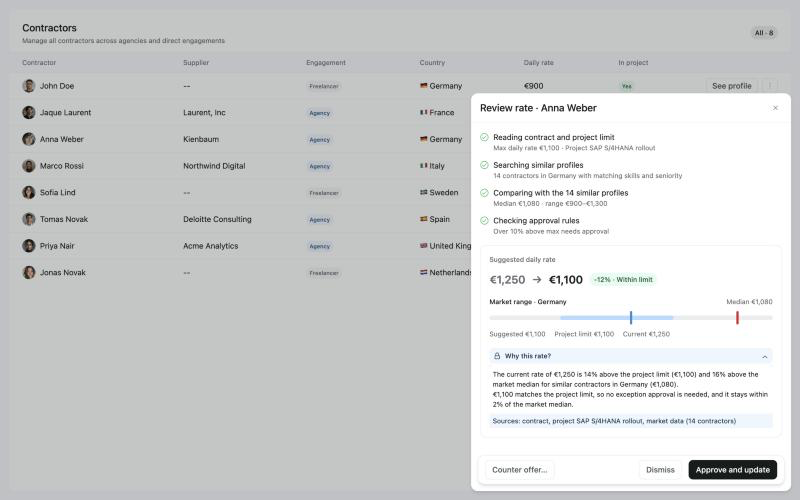
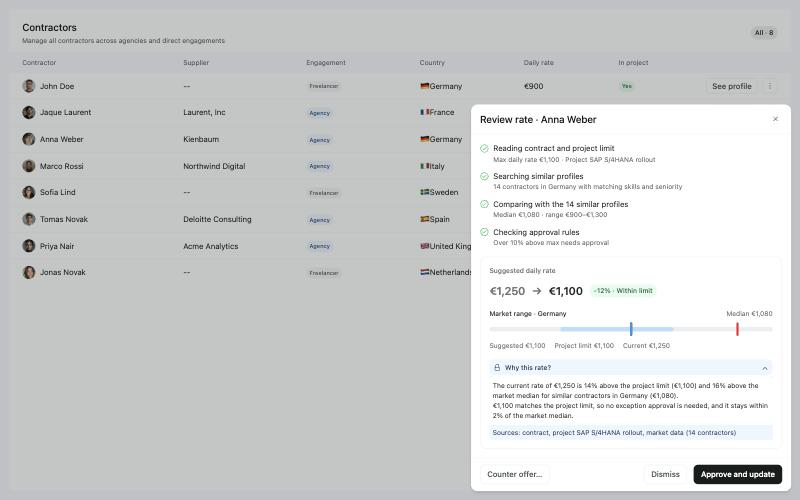
Review rate: panel footer pinned (like Figma), hug up to stage height, taller stage, new preview

diff --git a/experiments/review-rate/style.css b/experiments/review-rate/style.css
@@ -68,8 +68,8 @@
 .scrim { position: absolute; inset: 0; z-index: 40; background: color-mix(in srgb, var(--color-carbon-black-6) 25%, transparent); opacity: 0; pointer-events: none; transition: opacity .25s; }
 .panel { position: absolute; z-index: 50; right: 16px; bottom: 16px; width: min(576px, calc(100% - 32px)); height: 0; overflow: hidden; border-radius: 12px; background: var(--color-bg-white); color: var(--color-text-primary); box-shadow: var(--shadow-default); transform: translateY(calc(100% + 32px)); transition: transform .3s var(--ease), height .3s var(--ease); }
 .panel-inner { display: flex; flex-direction: column; }
-/* Floating footer: content scrolls underneath it */
-.float-footer { position: absolute; left: 12px; right: 12px; bottom: 12px; z-index: 2; display: flex; align-items: center; justify-content: space-between; padding: 8px 12px; border-radius: 12px; border: 1px solid var(--color-border-light); background: var(--color-bg-white); box-shadow: var(--shadow-default); }
+/* Footer pinned at the bottom of the floating panel; the body above it scrolls */
+.float-footer { flex: none; display: flex; align-items: center; justify-content: space-between; padding: 12px 16px; border-top: 1px solid var(--color-border-divider); background: var(--color-bg-white); }
 #stage[data-state="working"] .scrim, #stage[data-state="proposal"] .scrim { opacity: 1; pointer-events: auto; }
 #stage[data-state="working"] .panel, #stage[data-state="proposal"] .panel { transform: none; }
 

diff --git a/experiments/review-rate/index.html b/experiments/review-rate/index.html
@@ -26,7 +26,7 @@
       </div>
     </header>
 
-    <section id="stage" class="relative h-[640px] w-full overflow-hidden rounded-3xl bg-light shadow-card" data-state="idle">
+    <section id="stage" class="relative h-[760px] w-full overflow-hidden rounded-3xl bg-light shadow-card" data-state="idle">
       <div id="app" class="absolute inset-4 flex flex-col overflow-hidden rounded-xl bg-white text-ink-light">
         <div class="flex items-center justify-between px-6 pb-3 pt-5">
           <div>
@@ -50,7 +50,7 @@
           <h3 class="text-lg font-medium">Review rate · Anna Weber</h3>
           <button id="close" class="icon-btn" aria-label="Close"></button>
         </div>
-        <div id="panelBody" class="flex min-h-0 flex-1 flex-col gap-4 overflow-y-auto p-4 pb-24">
+        <div id="panelBody" class="flex min-h-0 flex-1 flex-col gap-4 overflow-y-auto p-4">
           <ol id="steps" class="flex flex-col gap-3"></ol>
           <div id="proposal" class="proposal rounded-xl border border-gray-1 p-4">
             <p class="text-xs font-medium text-muted-light">Suggested daily rate</p>

diff --git a/experiments/review-rate/script.js b/experiments/review-rate/script.js
@@ -97,7 +97,7 @@ $("close").innerHTML = icon("xmark"); $("whyLead").innerHTML = icon("lock") + "W
 // The panel hugs its content, anchored to the bottom; its height animates as steps appear.
 const panelInner = $("panelInner");
 new ResizeObserver(() => {
-  panelInner.style.maxHeight = stage.clientHeight - 32 + "px";
+  panelInner.style.maxHeight = stage.clientHeight - 32 + "px"; // hugs its content; scrolls only when it would not fit the stage
   $("panel").style.height = panelInner.offsetHeight + "px";
 }).observe(panelInner);
 const stepsEl = $("steps");
